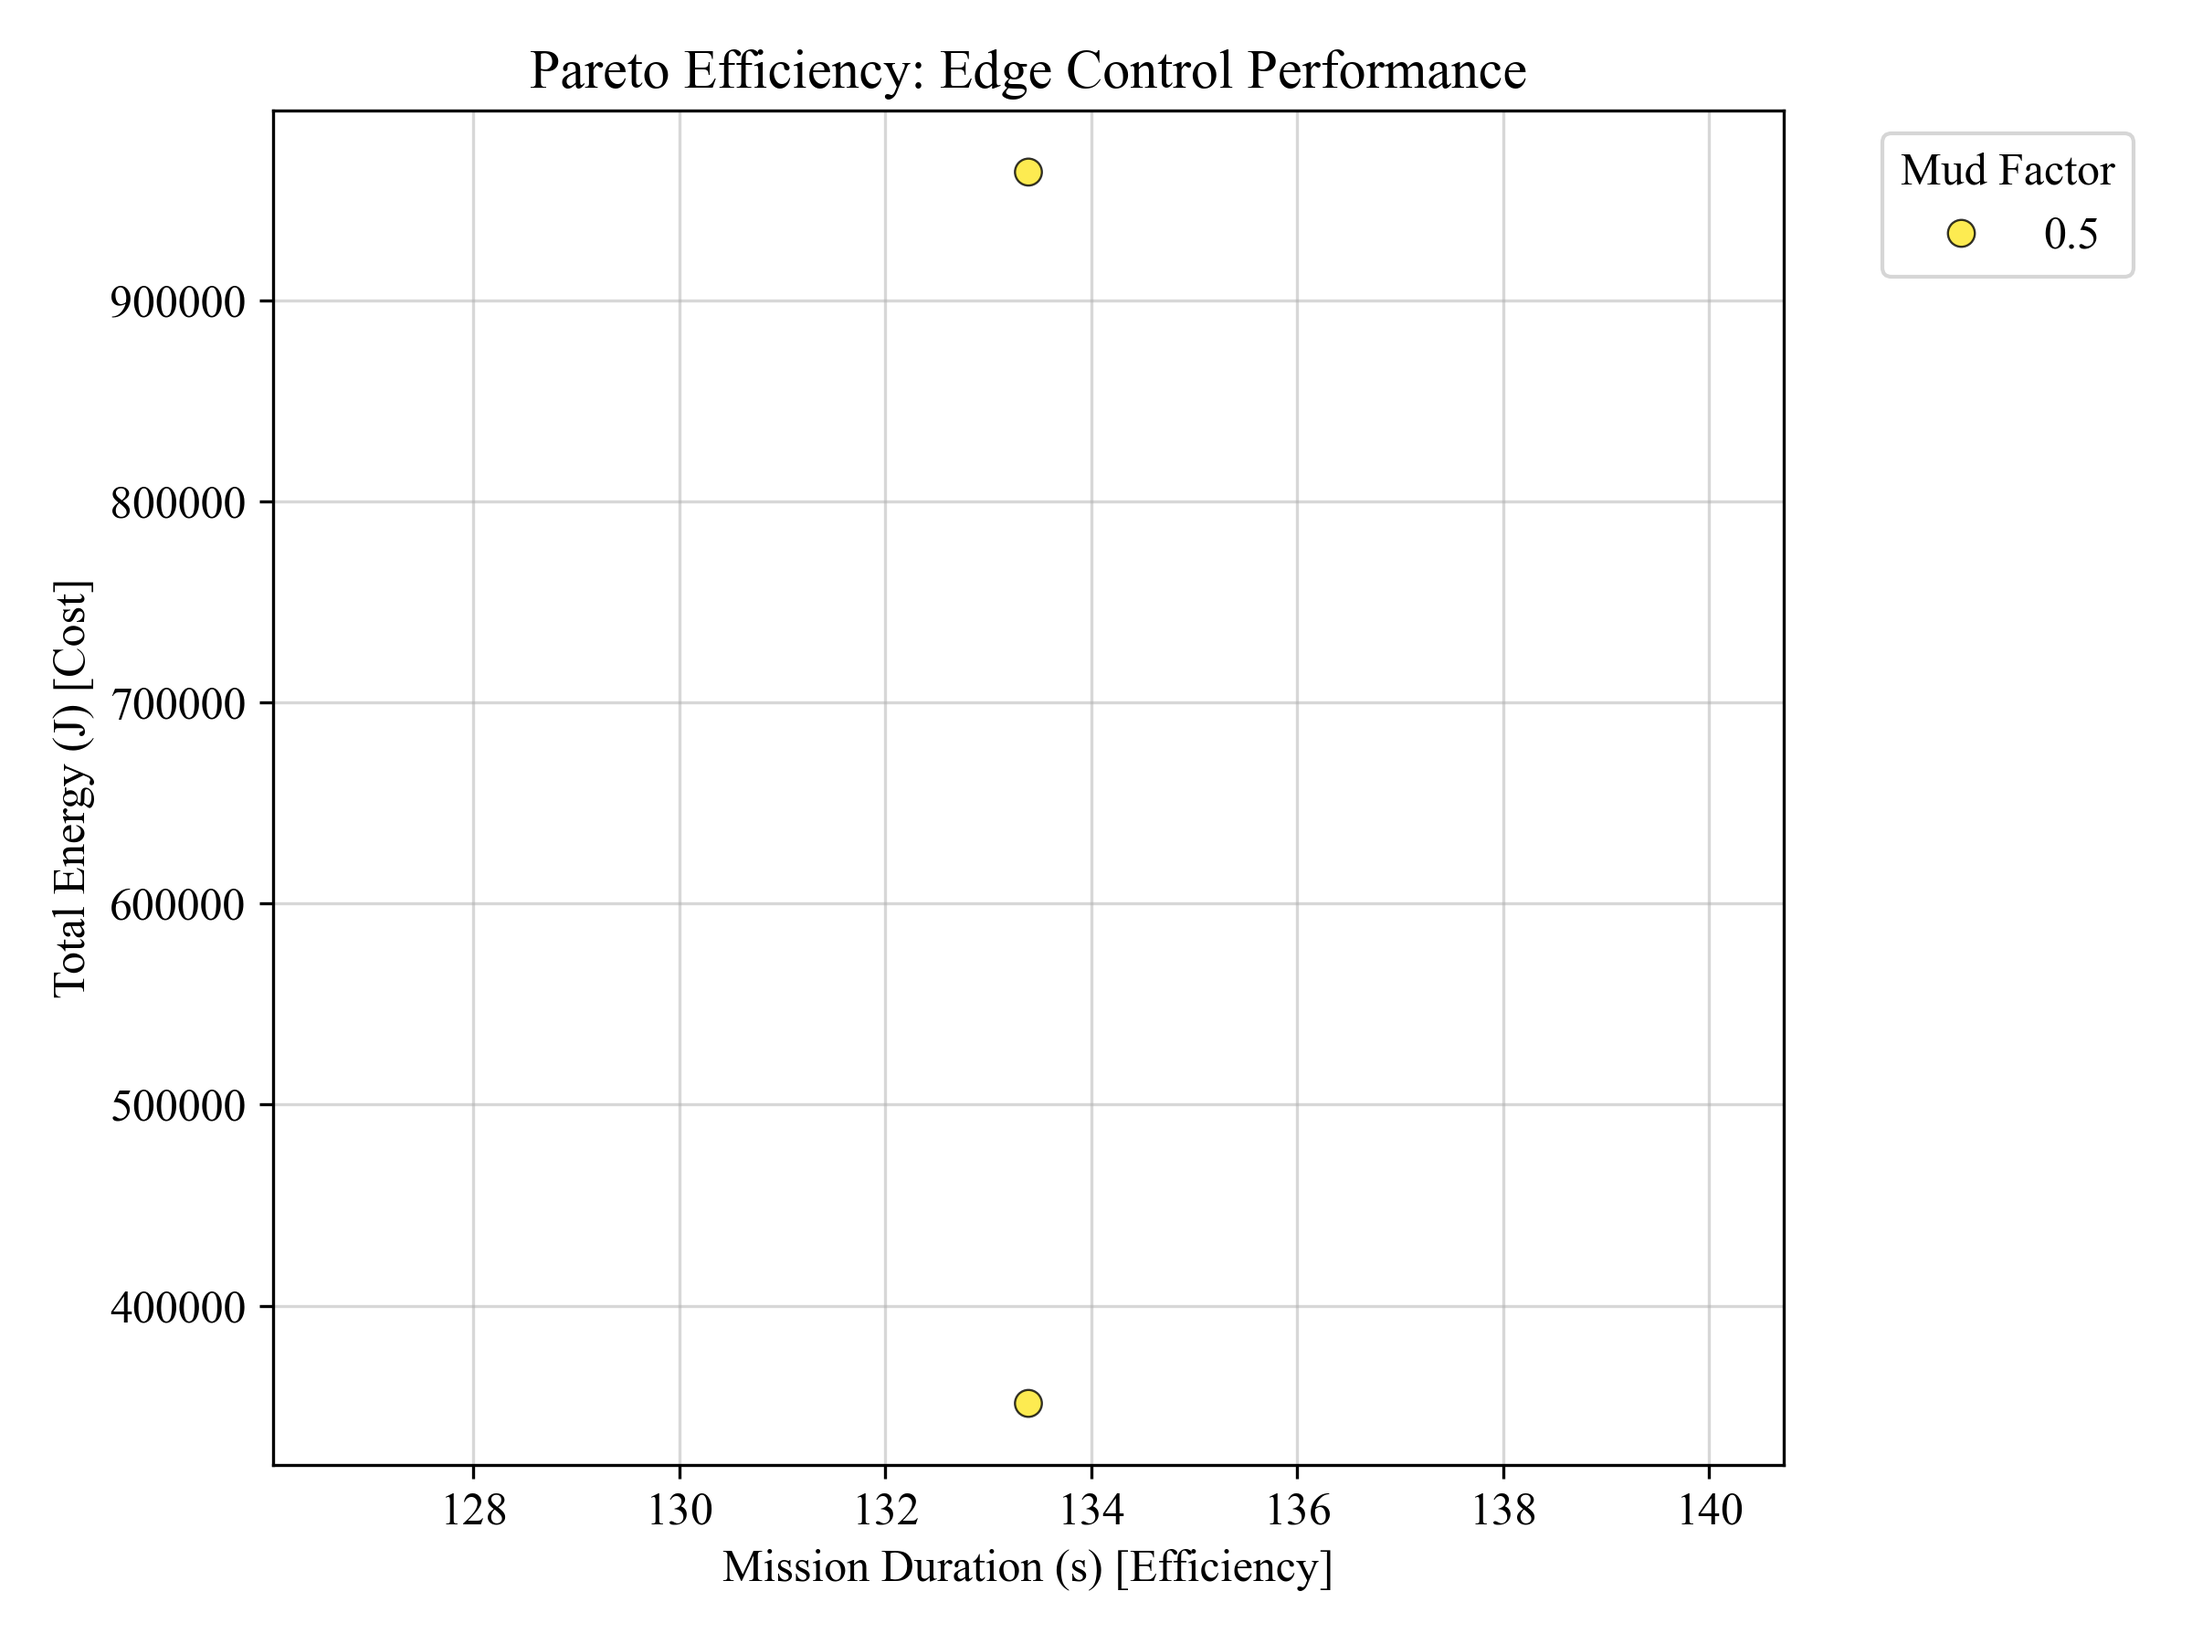
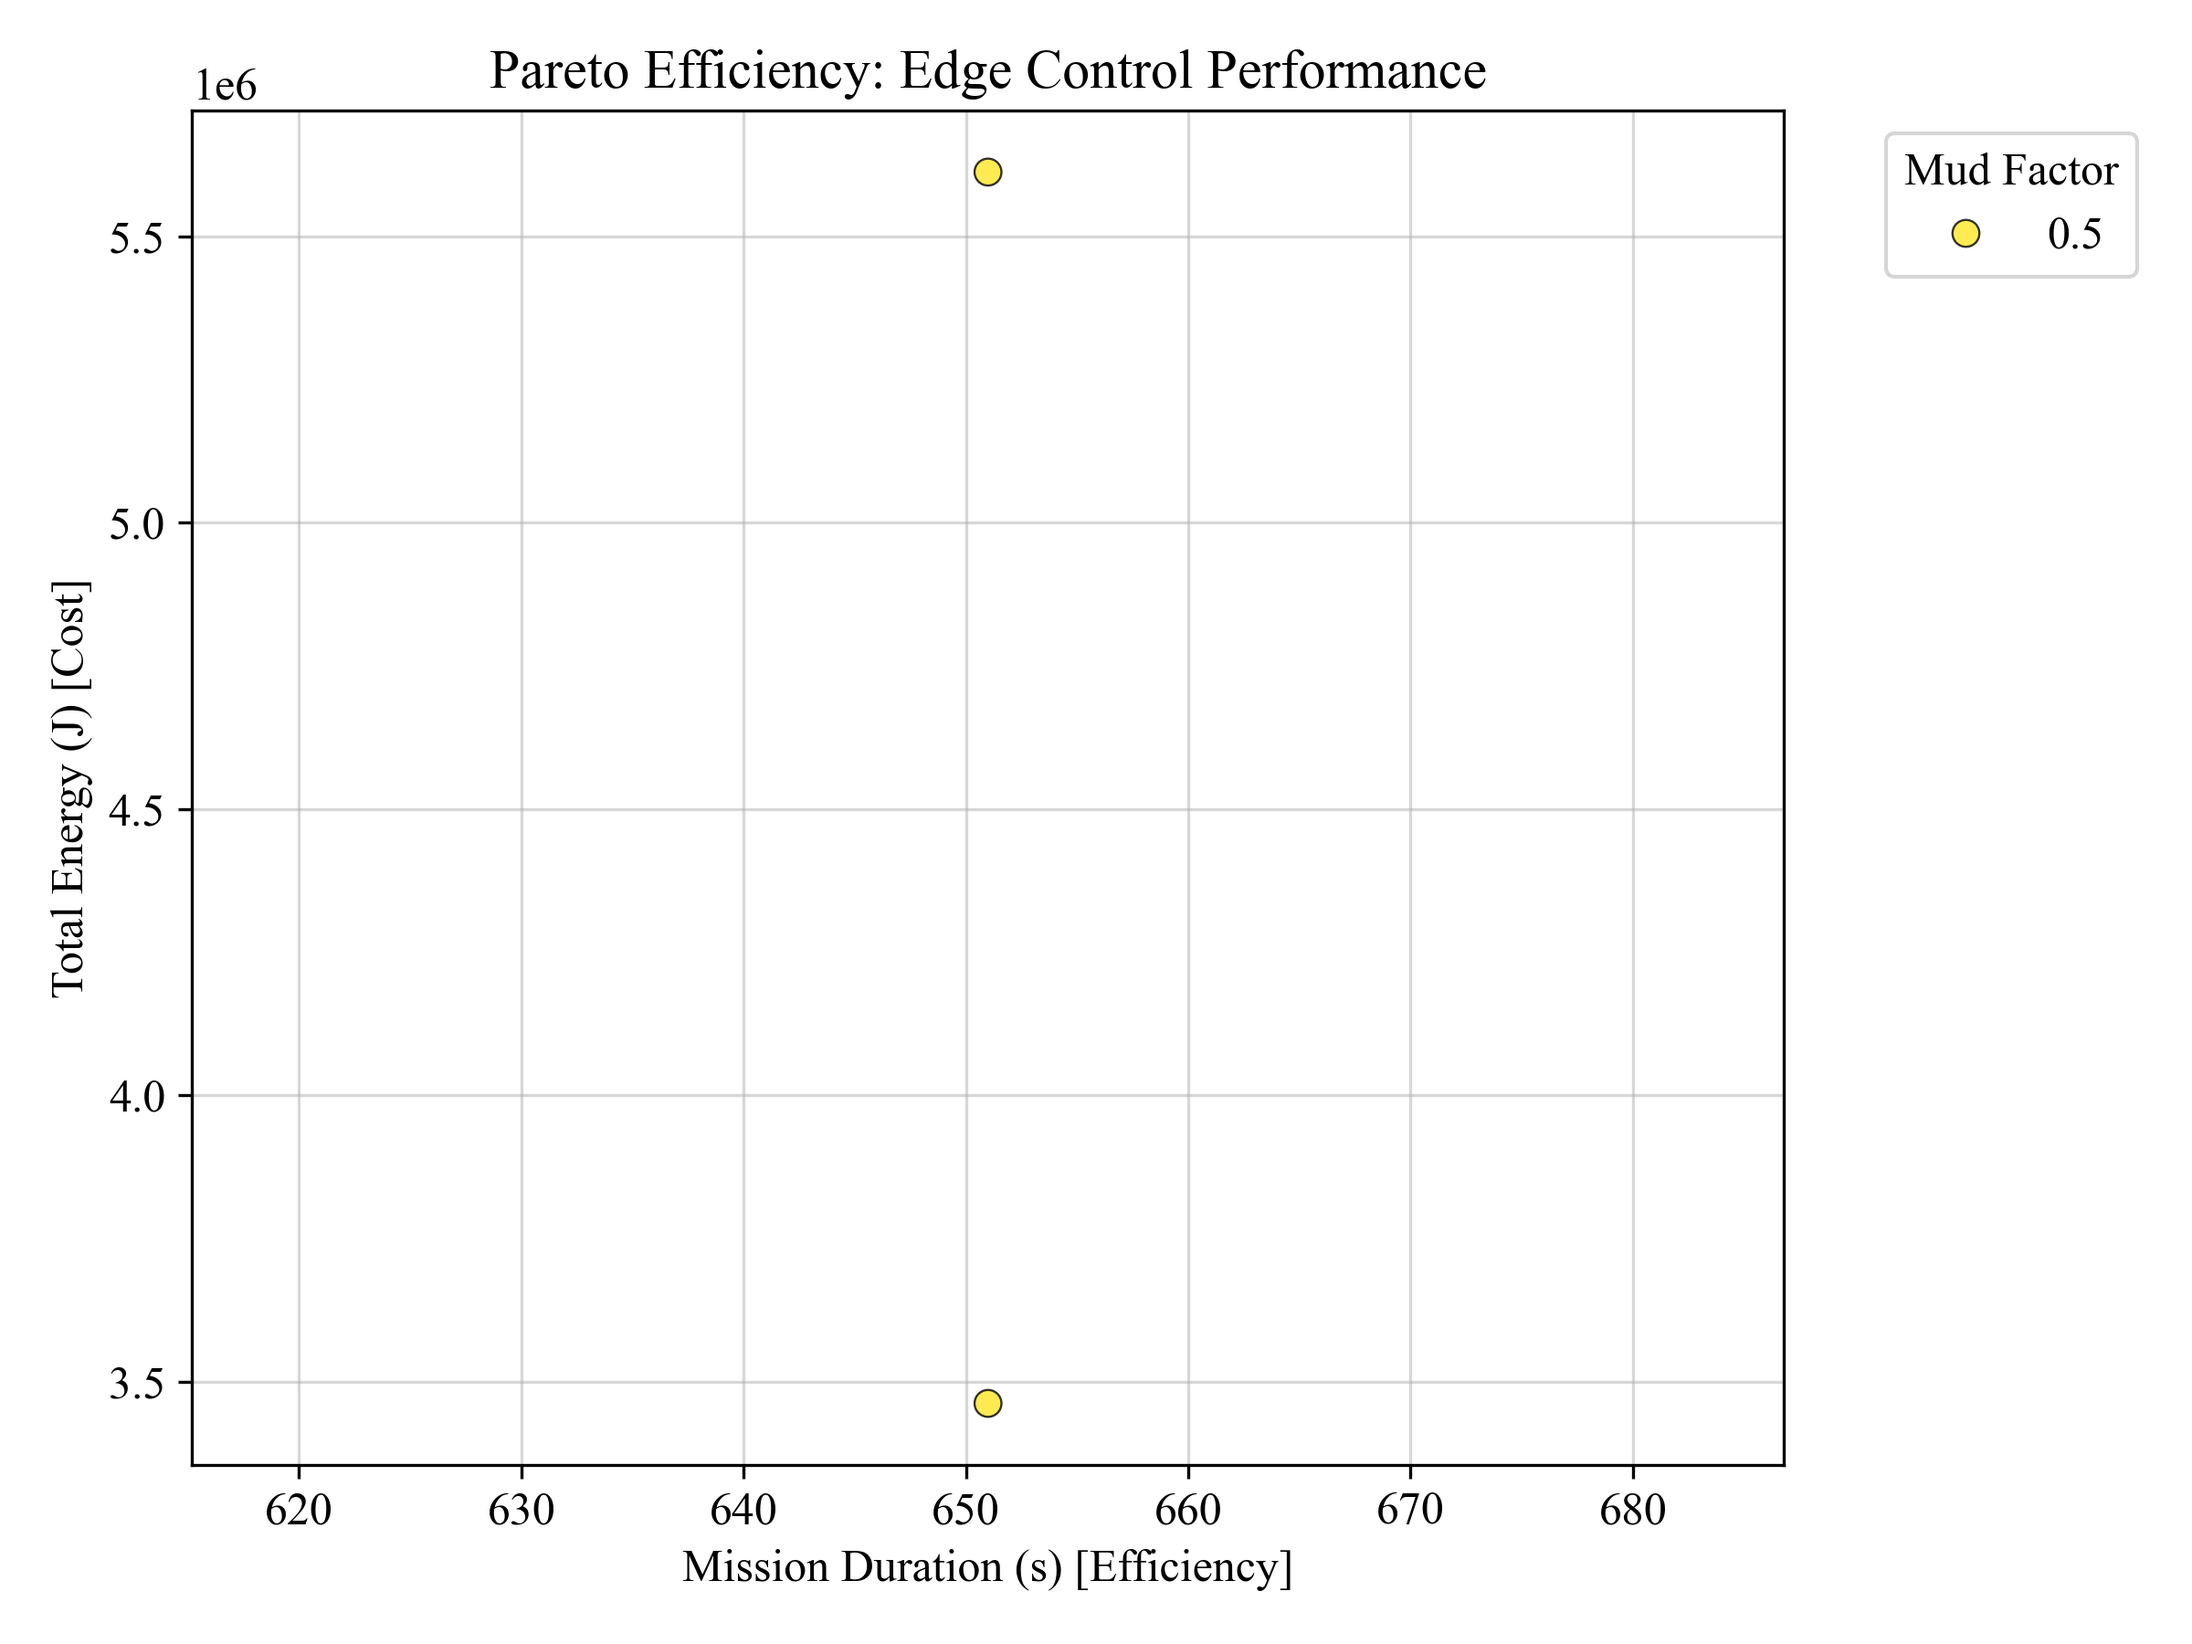
Add files via upload

diff --git a/vehicle.py b/vehicle.py
@@ -109,6 +109,7 @@ class VehicleAgent:
         self.v2v_neighbors = []  # All vehicles in comms range (Raw Hardware Data)
         self.rail_obstacles = []  # Vehicles physically blocking my track (Topology Logic)
         self.cached_node_potential = {}
+        self.current_rssi = -120.0  # 默认底噪
 
         # --- 5. Control Internal State ---
         self.mpc_prev_u = 0.0
@@ -262,6 +263,7 @@ class VehicleAgent:
         """
         self.v2v_neighbors = []
         scan_radius = 200.0  # DSRC typical range
+        max_rssi = -120.0 + np.random.normal(0, 1.0)
 
         for v in self.all_vehicles:
             if v.id == self.id: continue
